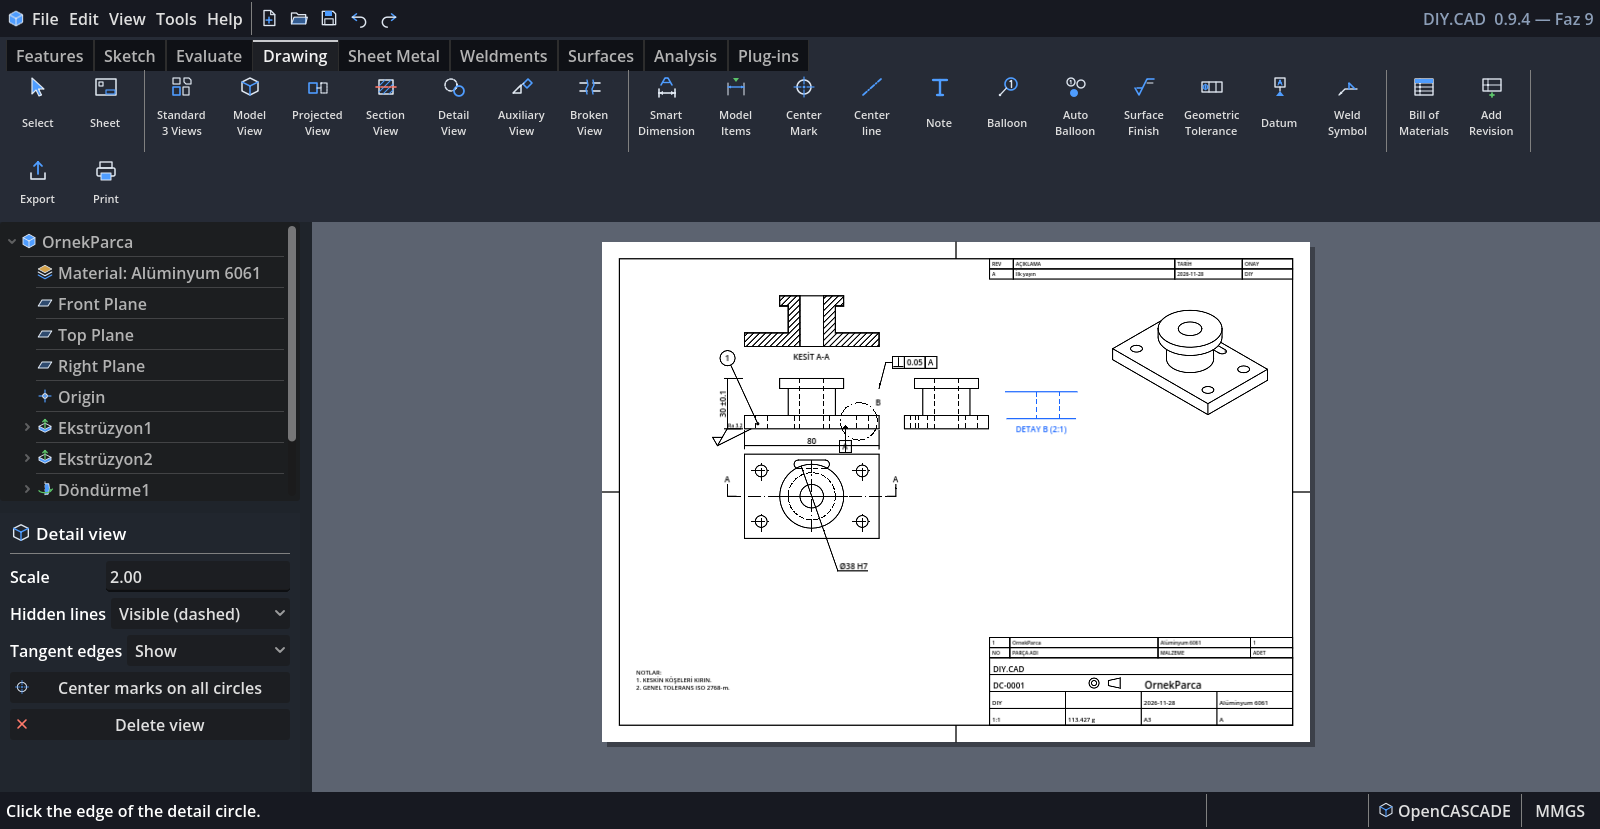
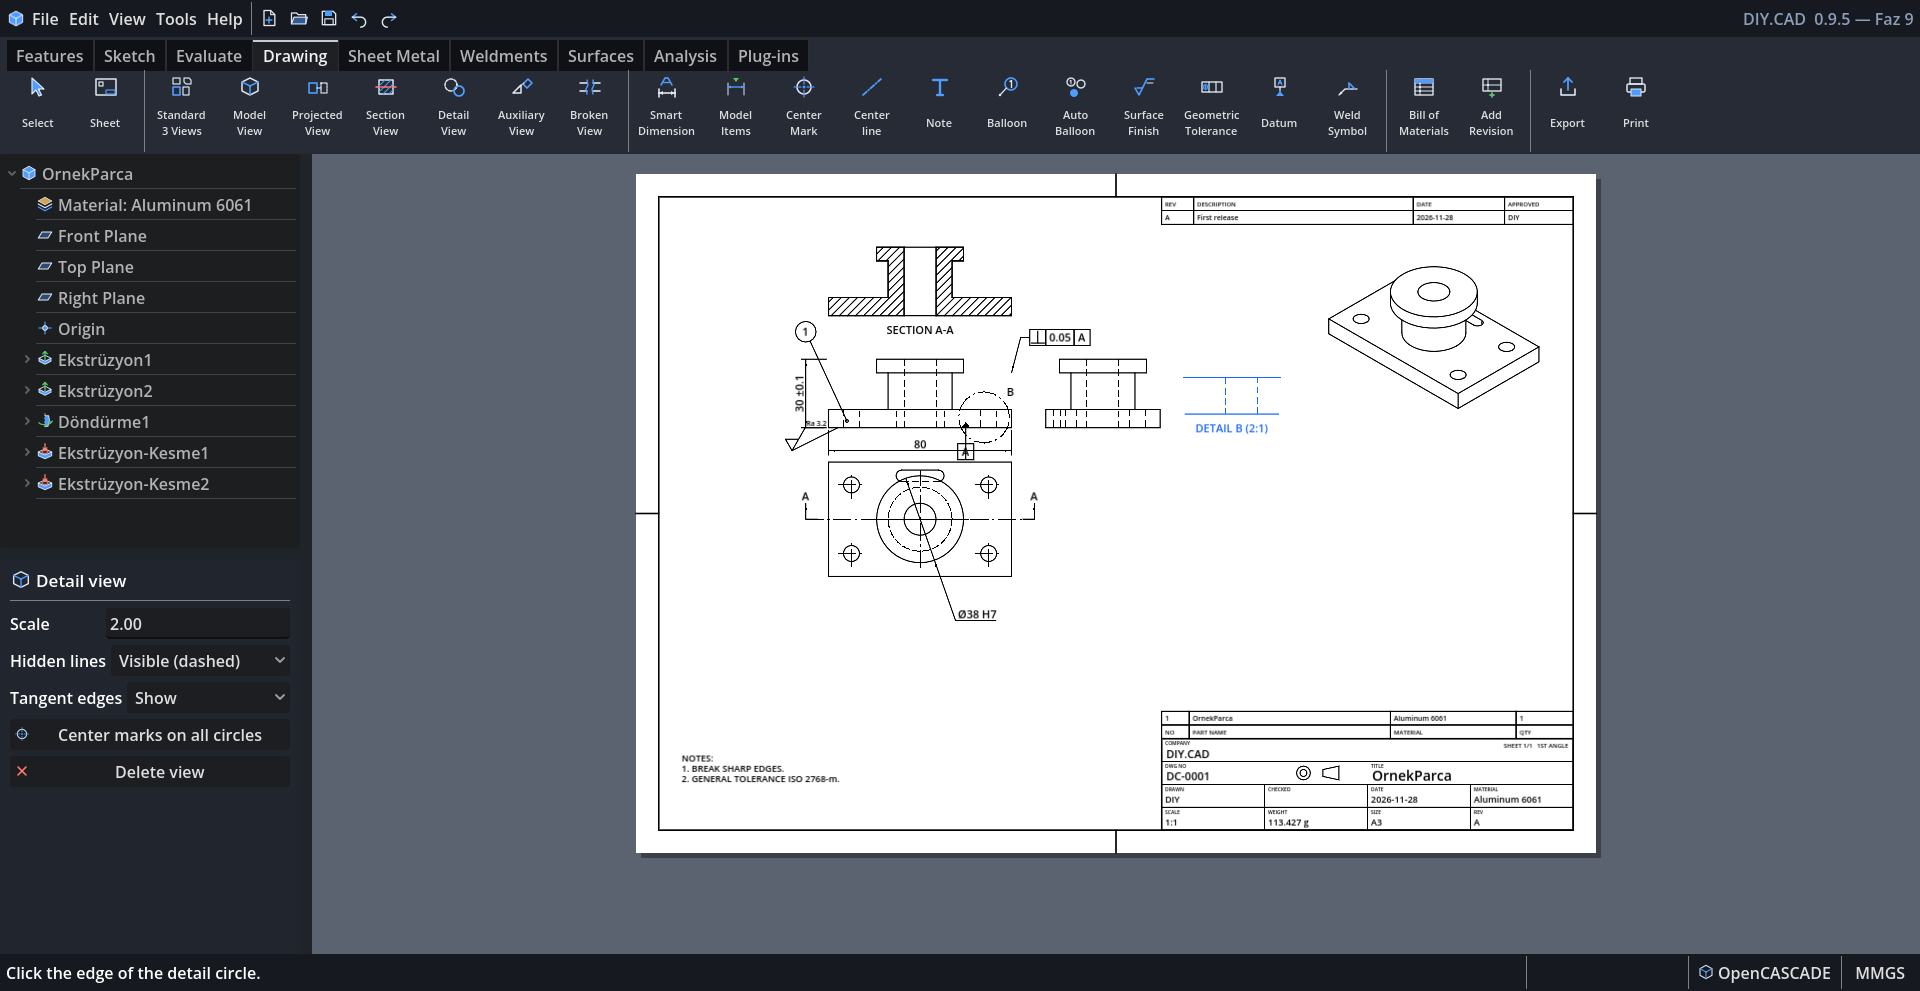
0.9.5: version bump, refreshed screenshots

diff --git a/README.md b/README.md
@@ -7,7 +7,7 @@
 A **parametric, feature-based** CAD program written in Godot 4.7.
 Goals and phases: [ROADMAP.md](ROADMAP.md)
 
-**Current version: 0.9.4 — one Export dialog for 40+ formats, UI in Turkish / English / German / Russian / Chinese, STL import (per-axis scale, regional stretch, tapered growth, protected region) + Phase 9 (complete): background mesh processing, LOD for large assemblies, plugins, Windows packaging, auto-save, keyboard shortcuts, mouse gestures, macros** (previous: Phase 8). Release notes: [CHANGELOG.md](CHANGELOG.md)
+**Current version: 0.9.5 — new logo, complete Turkish / English / German / Russian / Chinese UI, one Export dialog for 40+ formats, STL import (per-axis scale, regional stretch, tapered growth, protected region) + Phase 9 (complete): background mesh processing, LOD for large assemblies, plugins, Windows packaging, auto-save, keyboard shortcuts, mouse gestures, macros** (previous: Phase 8). Release notes: [CHANGELOG.md](CHANGELOG.md)
 
 The user interface is Turkish by default; switch to English, German, Russian or Chinese under **Tools → Options → General → Language** (applies instantly) or start with `--lang=en` (`de`, `ru`, `zh`). Menu and tool names below are given as they appear in the English UI.
 

diff --git a/README.tr.md b/README.tr.md
@@ -7,7 +7,7 @@
 Godot 4.7 ile yazılmış, **parametrik ve özellik tabanlı** bir CAD programı.
 Hedef ve aşamalar için: [ROADMAP.md](ROADMAP.md)
 
-**Şu anki sürüm: 0.9.4 — tek Dışa Aktar penceresinde 40+ format, Türkçe / İngilizce / Almanca / Rusça / Çince arayüz, STL içe aktarma (eksen bazlı ölçek, bölgesel uzatma, kademeli büyütme, koruma bölgesi) + Faz 9 (tamamlandı): arka planda ağ işleme, büyük montajlar için LOD, eklentiler, Windows paketleme, otomatik kaydetme, kısayollar, fare hareketleri, makrolar** (önceki: Faz 8). Sürüm notları: [CHANGELOG.md](CHANGELOG.md)
+**Şu anki sürüm: 0.9.5 — yeni logo, eksiksiz Türkçe / İngilizce / Almanca / Rusça / Çince arayüz, tek Dışa Aktar penceresinde 40+ format, STL içe aktarma (eksen bazlı ölçek, bölgesel uzatma, kademeli büyütme, koruma bölgesi) + Faz 9 (tamamlandı): arka planda ağ işleme, büyük montajlar için LOD, eklentiler, Windows paketleme, otomatik kaydetme, kısayollar, fare hareketleri, makrolar** (önceki: Faz 8). Sürüm notları: [CHANGELOG.md](CHANGELOG.md)
 
 ![DIY.CAD — parça modelleme](docs/screenshots/part.png)
 

diff --git a/CHANGELOG.md b/CHANGELOG.md
@@ -2,7 +2,7 @@
 
 Detailed feature list: [ROADMAP.md](ROADMAP.md). Usage: [README.md](README.md).
 
-## Unreleased
+## 0.9.5
 - **New logo and banner**: application / installer icon (small sizes use the logo mark without text), window icon, a DIY.CAD startup splash instead of the engine logo, and the banner at the top of the README.
 - **Complete translation**: the remaining ~550 interface texts (status and error messages, sketch tool messages, selection hints, drawing tool help, feature summaries, import / STL options, material, mate, hole and GD&T names, file dialog titles and filters) are now translated into English, German, Russian and Chinese. Drawing sheets (title block, view labels, BOM / revision headers, default notes) follow the UI language; Russian and Chinese sheets use English because DXF is written in code page 1254 and PDFs embed Arial without Chinese glyphs. German characters are now encoded in DXF text.
 
